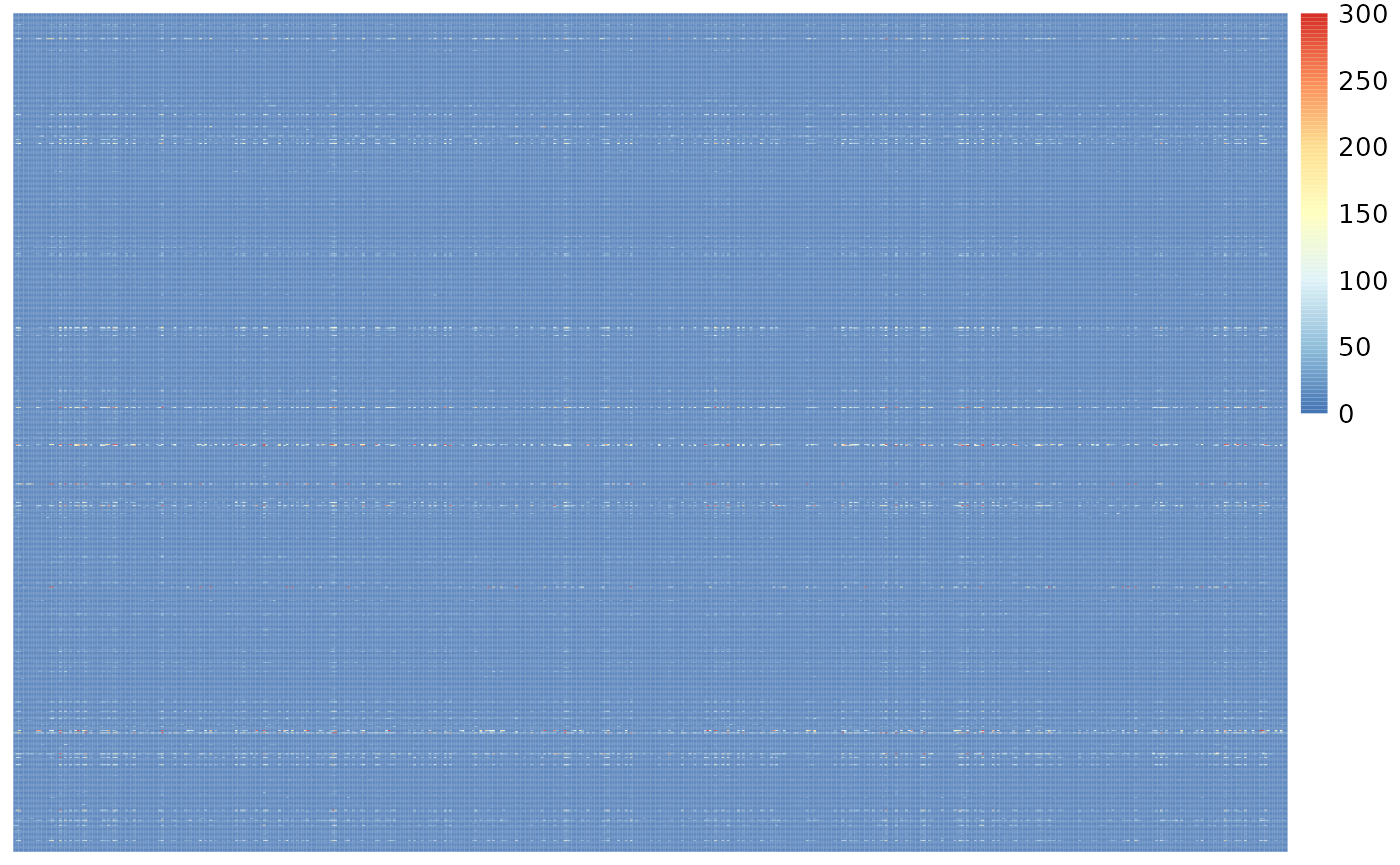
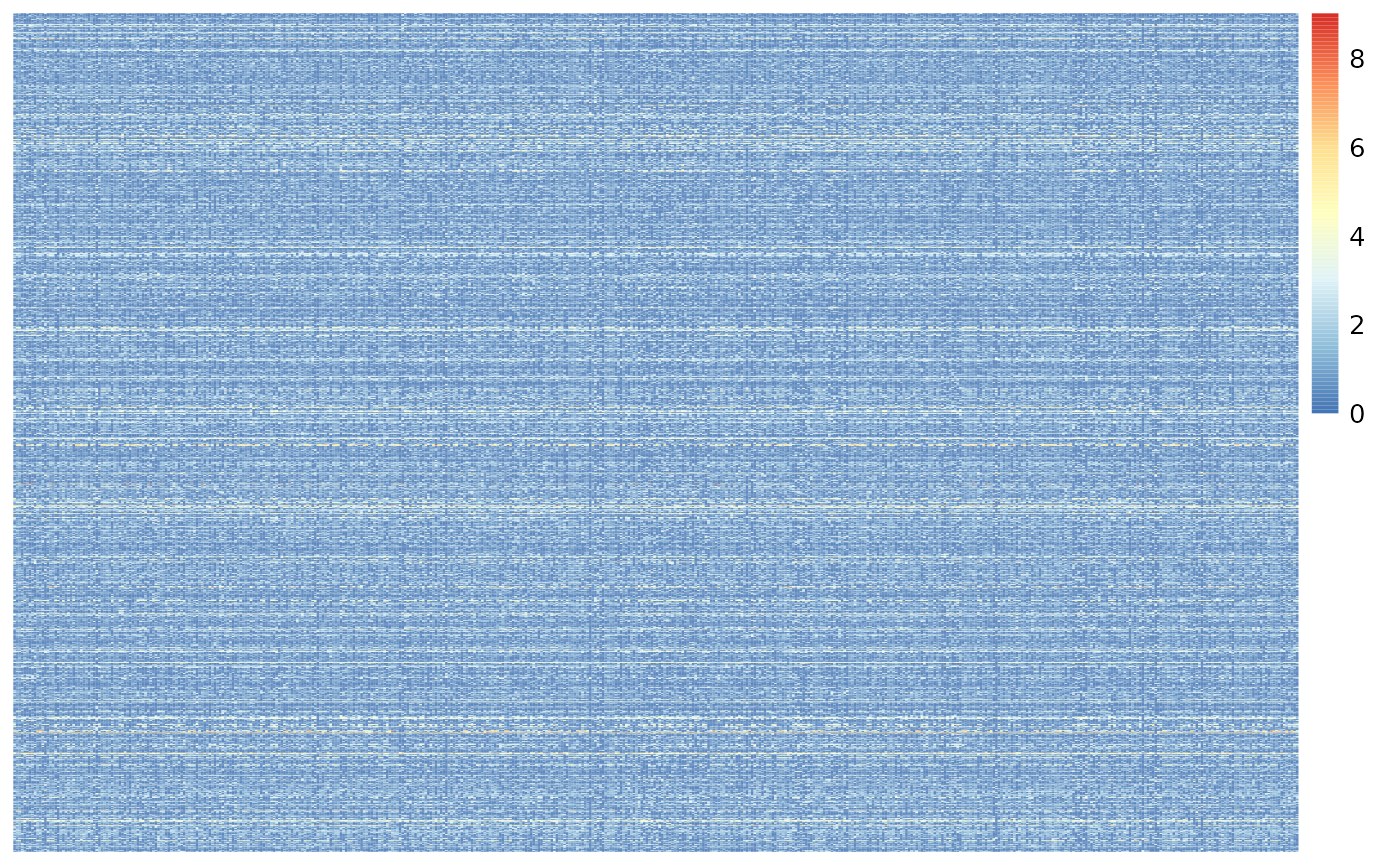
Built site for TREG: 0.99.0@3394f6f

diff --git a/articles/how_to_find_tregs.html b/articles/how_to_find_tregs.html
@@ -202,16 +202,18 @@
 <span class="co">#&gt; The following object is masked from 'package:S4Vectors':</span>
 <span class="co">#&gt; </span>
 <span class="co">#&gt;     expand</span></code></pre></div>
-<p>Here we download a public data snRNA-seq data that we’ll use as our example (Tran, Maynard, Spangler, et al., 2021).</p>
+<p>Here we download a public data single nucleus RNA-seq (snRNA-seq) data that we’ll use as our example (Tran, Maynard, Spangler, et al., 2021). It takes 1.01 GB of RAM memory to load this object.</p>
 <div class="sourceCode" id="cb5"><pre class="downlit sourceCode r">
 <code class="sourceCode R"><span class="co"># Download and save a local cache of the data available at:</span>
 <span class="co"># https://github.com/LieberInstitute/10xPilot_snRNAseq-human#processed-data</span>
-
 <span class="va">bfc</span> <span class="op">&lt;-</span> <span class="fu">BiocFileCache</span><span class="fu">::</span><span class="fu"><a href="https://rdrr.io/pkg/BiocFileCache/man/BiocFileCache-class.html" class="external-link">BiocFileCache</a></span><span class="op">(</span><span class="op">)</span>
-<span class="va">url</span> <span class="op">&lt;-</span> <span class="st">"https://libd-snrnaseq-pilot.s3.us-east-2.amazonaws.com/SCE_DLPFC-n3_tran-etal.rda"</span>
-<span class="va">data</span> <span class="op">&lt;-</span> <span class="fu">BiocFileCache</span><span class="fu">::</span><span class="fu"><a href="https://rdrr.io/pkg/BiocFileCache/man/BiocFileCache-class.html" class="external-link">bfcrpath</a></span><span class="op">(</span><span class="va">url</span>, x <span class="op">=</span> <span class="va">bfc</span><span class="op">)</span>
+<span class="va">url</span> <span class="op">&lt;-</span> <span class="fu"><a href="https://rdrr.io/r/base/paste.html" class="external-link">paste0</a></span><span class="op">(</span>
+    <span class="st">"https://libd-snrnaseq-pilot.s3.us-east-2.amazonaws.com/"</span>,
+    <span class="st">"SCE_DLPFC-n3_tran-etal.rda"</span>
+<span class="op">)</span>
+<span class="va">local_data</span> <span class="op">&lt;-</span> <span class="fu">BiocFileCache</span><span class="fu">::</span><span class="fu"><a href="https://rdrr.io/pkg/BiocFileCache/man/BiocFileCache-class.html" class="external-link">bfcrpath</a></span><span class="op">(</span><span class="va">url</span>, x <span class="op">=</span> <span class="va">bfc</span><span class="op">)</span>
 
-<span class="fu"><a href="https://rdrr.io/r/base/load.html" class="external-link">load</a></span><span class="op">(</span><span class="va">data</span>, verbose <span class="op">=</span> <span class="cn">TRUE</span><span class="op">)</span>
+<span class="fu"><a href="https://rdrr.io/r/base/load.html" class="external-link">load</a></span><span class="op">(</span><span class="va">local_data</span>, verbose <span class="op">=</span> <span class="cn">TRUE</span><span class="op">)</span>
 <span class="co">#&gt; Loading objects:</span>
 <span class="co">#&gt;   sce.dlpfc.tran</span></code></pre></div>
 <div class="section level3">
@@ -253,14 +255,14 @@
 <div class="section level4">
 <h4 id="filter-genes">Filter Genes<a class="anchor" aria-label="anchor" href="#filter-genes"></a>
 </h4>
-<p>Single Nucleus data is often very sparse (lots of zeros in the count data), this dataset is 88% sparse. We can illustrate this in the heat map which is very blue (Figure @ref(fig:exampleSparsity)).</p>
+<p>Single Nucleus data is often very sparse (lots of zeros in the count data), this dataset is 88% sparse. We can illustrate this in the heat map which is very blue (Figure @ref(fig:example_sparsity)).</p>
 <div class="sourceCode" id="cb8"><pre class="downlit sourceCode r">
 <code class="sourceCode R"><span class="co">## this data is 88% sparse</span>
 <span class="fu"><a href="https://rdrr.io/r/base/sum.html" class="external-link">sum</a></span><span class="op">(</span><span class="fu"><a href="https://rdrr.io/pkg/SummarizedExperiment/man/SummarizedExperiment-class.html" class="external-link">assays</a></span><span class="op">(</span><span class="va">sce.dlpfc.tran</span><span class="op">)</span><span class="op">$</span><span class="va">counts</span> <span class="op">==</span> <span class="fl">0</span><span class="op">)</span> <span class="op">/</span> <span class="op">(</span><span class="fu"><a href="https://rdrr.io/r/base/nrow.html" class="external-link">nrow</a></span><span class="op">(</span><span class="va">sce.dlpfc.tran</span><span class="op">)</span> <span class="op">*</span> <span class="fu"><a href="https://rdrr.io/r/base/nrow.html" class="external-link">ncol</a></span><span class="op">(</span><span class="va">sce.dlpfc.tran</span><span class="op">)</span><span class="op">)</span>
 <span class="co">#&gt; [1] 0.8839022</span>
 
 <span class="co">## lets make a heatmap of the first 1k genes and 500 cells</span>
-<span class="va">count_test</span> <span class="op">&lt;-</span> <span class="fu"><a href="https://rdrr.io/r/base/matrix.html" class="external-link">as.matrix</a></span><span class="op">(</span><span class="fu"><a href="https://rdrr.io/pkg/SummarizedExperiment/man/SummarizedExperiment-class.html" class="external-link">assays</a></span><span class="op">(</span><span class="va">sce.dlpfc.tran</span><span class="op">)</span><span class="op">$</span><span class="va">counts</span><span class="op">[</span><span class="fl">1</span><span class="op">:</span><span class="fl">1000</span>, <span class="fl">1</span><span class="op">:</span><span class="fl">500</span><span class="op">]</span><span class="op">)</span>
+<span class="va">count_test</span> <span class="op">&lt;-</span> <span class="fu"><a href="https://rdrr.io/r/base/matrix.html" class="external-link">as.matrix</a></span><span class="op">(</span><span class="fu"><a href="https://rdrr.io/pkg/SummarizedExperiment/man/SummarizedExperiment-class.html" class="external-link">assays</a></span><span class="op">(</span><span class="va">sce.dlpfc.tran</span><span class="op">)</span><span class="op">$</span><span class="va">logcounts</span><span class="op">[</span><span class="fl">1</span><span class="op">:</span><span class="fl">1000</span>, <span class="fl">1</span><span class="op">:</span><span class="fl">500</span><span class="op">]</span><span class="op">)</span>
 <span class="fu"><a href="https://rdrr.io/pkg/pheatmap/man/pheatmap.html" class="external-link">pheatmap</a></span><span class="op">(</span><span class="va">count_test</span>,
     cluster_rows <span class="op">=</span> <span class="cn">FALSE</span>,
     cluster_cols <span class="op">=</span> <span class="cn">FALSE</span>,
@@ -268,7 +270,7 @@
     show_colnames <span class="op">=</span> <span class="cn">FALSE</span>
 <span class="op">)</span></code></pre></div>
 <div class="figure">
-<img src="how_to_find_tregs_files/figure-html/examineSparsity-1.png" alt="TODO." width="700"><p class="caption">
+<img src="how_to_find_tregs_files/figure-html/examine_sparsity-1.png" alt="TODO." width="700"><p class="caption">
 TODO.
 </p>
 </div>
@@ -284,21 +286,25 @@ TODO.
 <span class="va">sce.dlpfc.tran</span> <span class="op">&lt;-</span> <span class="va">sce.dlpfc.tran</span><span class="op">[</span><span class="va">row_means</span> <span class="op">&gt;</span> <span class="va">median_row_means</span>, <span class="op">]</span>
 <span class="fu"><a href="https://rdrr.io/r/base/dim.html" class="external-link">dim</a></span><span class="op">(</span><span class="va">sce.dlpfc.tran</span><span class="op">)</span>
 <span class="co">#&gt; [1] 16769 11165</span></code></pre></div>
-<p>After this filter lets check sparsity and make a heatmap of the first 1k genes and 500 cells. We are seeing more non-blue!</p>
+<p>After this filter lets check sparsity and make a heatmap of the first 1k genes and 500 cells. We are seeing more non-blue (Figure @ref(fig:top50_filter_heatmap))!</p>
 <div class="sourceCode" id="cb10"><pre class="downlit sourceCode r">
 <code class="sourceCode R"><span class="co">## this data down to 77% sparse</span>
 <span class="fu"><a href="https://rdrr.io/r/base/sum.html" class="external-link">sum</a></span><span class="op">(</span><span class="fu"><a href="https://rdrr.io/pkg/SummarizedExperiment/man/SummarizedExperiment-class.html" class="external-link">assays</a></span><span class="op">(</span><span class="va">sce.dlpfc.tran</span><span class="op">)</span><span class="op">$</span><span class="va">counts</span> <span class="op">==</span> <span class="fl">0</span><span class="op">)</span> <span class="op">/</span> <span class="op">(</span><span class="fu"><a href="https://rdrr.io/r/base/nrow.html" class="external-link">nrow</a></span><span class="op">(</span><span class="va">sce.dlpfc.tran</span><span class="op">)</span> <span class="op">*</span> <span class="fu"><a href="https://rdrr.io/r/base/nrow.html" class="external-link">ncol</a></span><span class="op">(</span><span class="va">sce.dlpfc.tran</span><span class="op">)</span><span class="op">)</span>
 <span class="co">#&gt; [1] 0.7713423</span>
 
 <span class="co">## replot heatmap</span>
-<span class="va">count_test</span> <span class="op">&lt;-</span> <span class="fu"><a href="https://rdrr.io/r/base/matrix.html" class="external-link">as.matrix</a></span><span class="op">(</span><span class="fu"><a href="https://rdrr.io/pkg/SummarizedExperiment/man/SummarizedExperiment-class.html" class="external-link">assays</a></span><span class="op">(</span><span class="va">sce.dlpfc.tran</span><span class="op">)</span><span class="op">$</span><span class="va">counts</span><span class="op">[</span><span class="fl">1</span><span class="op">:</span><span class="fl">1000</span>, <span class="fl">1</span><span class="op">:</span><span class="fl">500</span><span class="op">]</span><span class="op">)</span>
+<span class="va">count_test</span> <span class="op">&lt;-</span> <span class="fu"><a href="https://rdrr.io/r/base/matrix.html" class="external-link">as.matrix</a></span><span class="op">(</span><span class="fu"><a href="https://rdrr.io/pkg/SummarizedExperiment/man/SummarizedExperiment-class.html" class="external-link">assays</a></span><span class="op">(</span><span class="va">sce.dlpfc.tran</span><span class="op">)</span><span class="op">$</span><span class="va">logcounts</span><span class="op">[</span><span class="fl">1</span><span class="op">:</span><span class="fl">1000</span>, <span class="fl">1</span><span class="op">:</span><span class="fl">500</span><span class="op">]</span><span class="op">)</span>
 <span class="fu">pheatmap</span><span class="fu">::</span><span class="fu"><a href="https://rdrr.io/pkg/pheatmap/man/pheatmap.html" class="external-link">pheatmap</a></span><span class="op">(</span><span class="va">count_test</span>,
     cluster_rows <span class="op">=</span> <span class="cn">FALSE</span>,
     cluster_cols <span class="op">=</span> <span class="cn">FALSE</span>,
     show_rownames <span class="op">=</span> <span class="cn">FALSE</span>,
     show_colnames <span class="op">=</span> <span class="cn">FALSE</span>
 <span class="op">)</span></code></pre></div>
-<p><img src="how_to_find_tregs_files/figure-html/top50_filter_heatmap-1.png" width="700"></p>
+<div class="figure">
+<img src="how_to_find_tregs_files/figure-html/top50_filter_heatmap-1.png" alt="TODO." width="700"><p class="caption">
+TODO.
+</p>
+</div>
 </div>
 <div class="section level5">
 <h5 id="calculate-the-proportion-of-zeros-and-pick-cutoff">Calculate the Proportion of Zeros and Pick Cutoff<a class="anchor" aria-label="anchor" href="#calculate-the-proportion-of-zeros-and-pick-cutoff"></a>
@@ -315,7 +321,7 @@ TODO.
 <span class="co">#&gt; NOC2L      0.9347826 0.6168342 0.7556962 0.9536082 0.9365720 0.8811189</span>
 <span class="co">#&gt; KLHL17     0.9859335 0.8986600 0.9360759 0.9922680 0.9963336 0.9877622</span>
 <span class="co">#&gt; HES4       0.8695652 0.7357621 0.6892405 0.9974227 0.9906508 0.9737762</span></code></pre></div>
-<p>To determine a good cutoff for filtering lets examine the distribution of these proportions by group.</p>
+<p>To determine a good cutoff for filtering lets examine the distribution of these proportions by group (Figure @ref(fig:prop_zero_distribution)).</p>
 <div class="sourceCode" id="cb12"><pre class="downlit sourceCode r">
 <code class="sourceCode R"><span class="co"># Need to pivot data</span>
 <span class="va">prop_zero_long</span> <span class="op">&lt;-</span> <span class="va">prop_zeros</span> <span class="op"><a href="https://magrittr.tidyverse.org/reference/pipe.html" class="external-link">%&gt;%</a></span>
@@ -329,39 +335,51 @@ TODO.
 <span class="op">)</span> <span class="op">+</span>
     <span class="fu"><a href="https://ggplot2.tidyverse.org/reference/geom_histogram.html" class="external-link">geom_histogram</a></span><span class="op">(</span>binwidth <span class="op">=</span> <span class="fl">0.05</span><span class="op">)</span> <span class="op">+</span>
     <span class="fu"><a href="https://ggplot2.tidyverse.org/reference/facet_wrap.html" class="external-link">facet_wrap</a></span><span class="op">(</span><span class="op">~</span><span class="va">Group</span><span class="op">)</span><span class="op">)</span></code></pre></div>
-<p><img src="how_to_find_tregs_files/figure-html/prop_zero_distribution-1.png" width="700"></p>
-<p>Looks like around 0.9 the densities peak, we’ll set that as the cutoff.</p>
+<div class="figure">
+<img src="how_to_find_tregs_files/figure-html/prop_zero_distribution-1.png" alt="TODO." width="700"><p class="caption">
+TODO.
+</p>
+</div>
+<p>Looks like around 0.9 the densities peak, we’ll set that as the cutoff (Figure @ref(fig:pick_cutoff)).</p>
 <div class="sourceCode" id="cb13"><pre class="downlit sourceCode r">
-<code class="sourceCode R"><span class="va">propZero_limit</span> <span class="op">&lt;-</span> <span class="fl">0.9</span>
+<code class="sourceCode R"><span class="co">## Specify a cutoff, here we use 0.9</span>
+<span class="va">propZero_limit</span> <span class="op">&lt;-</span> <span class="fl">0.9</span>
 
+<span class="co">## Add a vertical red dashed line where the cutoff is located</span>
 <span class="va">prop_zero_histogram</span> <span class="op">+</span>
     <span class="fu"><a href="https://ggplot2.tidyverse.org/reference/geom_abline.html" class="external-link">geom_vline</a></span><span class="op">(</span>xintercept <span class="op">=</span> <span class="va">propZero_limit</span>, color <span class="op">=</span> <span class="st">"red"</span>, linetype <span class="op">=</span> <span class="st">"dashed"</span><span class="op">)</span></code></pre></div>
-<p><img src="how_to_find_tregs_files/figure-html/pick_cutoff-1.png" width="700"></p>
+<div class="figure">
+<img src="how_to_find_tregs_files/figure-html/pick_cutoff-1.png" alt="TODO." width="700"><p class="caption">
+TODO.
+</p>
+</div>
 </div>
 <div class="section level5">
 <h5 id="filter-by-the-max-proportion-of-zeros">Filter by the Max Proportion of Zeros<a class="anchor" aria-label="anchor" href="#filter-by-the-max-proportion-of-zeros"></a>
 </h5>
-<p>Use the cutoff to filter the remaining genes. Only 4k or ~11% of genes pass with this cutoff. Filter the sce object to this set of genes.</p>
+<p>Use the cutoff to filter the remaining genes. Only 4k or ~11% of genes pass with this cutoff. Filter the SCE object to this set of genes.</p>
 <div class="sourceCode" id="cb14"><pre class="downlit sourceCode r">
 <code class="sourceCode R"><span class="co">## get a list of filtered genes</span>
 <span class="va">filtered_genes</span> <span class="op">&lt;-</span> <span class="fu"><a href="../reference/filter_prop_zero.html">filter_prop_zero</a></span><span class="op">(</span><span class="va">prop_zeros</span>, cutoff <span class="op">=</span> <span class="va">propZero_limit</span><span class="op">)</span>
+
 <span class="co">## How many genes pass the filter?</span>
 <span class="fu"><a href="https://rdrr.io/r/base/length.html" class="external-link">length</a></span><span class="op">(</span><span class="va">filtered_genes</span><span class="op">)</span>
 <span class="co">#&gt; [1] 4005</span>
+
 <span class="co">## What % of genes is this</span>
 <span class="fu"><a href="https://rdrr.io/r/base/length.html" class="external-link">length</a></span><span class="op">(</span><span class="va">filtered_genes</span><span class="op">)</span> <span class="op">/</span> <span class="fu"><a href="https://rdrr.io/r/base/nrow.html" class="external-link">nrow</a></span><span class="op">(</span><span class="va">sce.dlpfc.tran</span><span class="op">)</span>
 <span class="co">#&gt; [1] 0.2388336</span>
 
 <span class="co">## Filter the sce object</span>
 <span class="va">sce.dlpfc.tran</span> <span class="op">&lt;-</span> <span class="va">sce.dlpfc.tran</span><span class="op">[</span><span class="va">filtered_genes</span>, <span class="op">]</span></code></pre></div>
-<p>One last check of the sparsity and heatmap.</p>
+<p>One last check of the sparsity and heatmap (Figure @ref(fig:prop_zero_filter_heatmap)).</p>
 <div class="sourceCode" id="cb15"><pre class="downlit sourceCode r">
 <code class="sourceCode R"><span class="co">## this data down to 50% sparse</span>
 <span class="fu"><a href="https://rdrr.io/r/base/sum.html" class="external-link">sum</a></span><span class="op">(</span><span class="fu"><a href="https://rdrr.io/pkg/SummarizedExperiment/man/SummarizedExperiment-class.html" class="external-link">assays</a></span><span class="op">(</span><span class="va">sce.dlpfc.tran</span><span class="op">)</span><span class="op">$</span><span class="va">counts</span> <span class="op">==</span> <span class="fl">0</span><span class="op">)</span> <span class="op">/</span> <span class="op">(</span><span class="fu"><a href="https://rdrr.io/r/base/nrow.html" class="external-link">nrow</a></span><span class="op">(</span><span class="va">sce.dlpfc.tran</span><span class="op">)</span> <span class="op">*</span> <span class="fu"><a href="https://rdrr.io/r/base/nrow.html" class="external-link">ncol</a></span><span class="op">(</span><span class="va">sce.dlpfc.tran</span><span class="op">)</span><span class="op">)</span>
 <span class="co">#&gt; [1] 0.5010587</span>
 
-<span class="co">## replot heatmap</span>
-<span class="va">count_test</span> <span class="op">&lt;-</span> <span class="fu"><a href="https://rdrr.io/r/base/matrix.html" class="external-link">as.matrix</a></span><span class="op">(</span><span class="fu"><a href="https://rdrr.io/pkg/SummarizedExperiment/man/SummarizedExperiment-class.html" class="external-link">assays</a></span><span class="op">(</span><span class="va">sce.dlpfc.tran</span><span class="op">)</span><span class="op">$</span><span class="va">counts</span><span class="op">[</span><span class="fl">1</span><span class="op">:</span><span class="fl">1000</span>, <span class="fl">1</span><span class="op">:</span><span class="fl">500</span><span class="op">]</span><span class="op">)</span>
+<span class="co">## re-plot heatmap</span>
+<span class="va">count_test</span> <span class="op">&lt;-</span> <span class="fu"><a href="https://rdrr.io/r/base/matrix.html" class="external-link">as.matrix</a></span><span class="op">(</span><span class="fu"><a href="https://rdrr.io/pkg/SummarizedExperiment/man/SummarizedExperiment-class.html" class="external-link">assays</a></span><span class="op">(</span><span class="va">sce.dlpfc.tran</span><span class="op">)</span><span class="op">$</span><span class="va">logcounts</span><span class="op">[</span><span class="fl">1</span><span class="op">:</span><span class="fl">1000</span>, <span class="fl">1</span><span class="op">:</span><span class="fl">500</span><span class="op">]</span><span class="op">)</span>
 <span class="co">## Just to help visualization we'll cap the counts at 300</span>
 <span class="va">count_test</span><span class="op">[</span><span class="va">count_test</span> <span class="op">&gt;</span> <span class="fl">300</span><span class="op">]</span> <span class="op">&lt;-</span> <span class="fl">300</span>
 <span class="fu">pheatmap</span><span class="fu">::</span><span class="fu"><a href="https://rdrr.io/pkg/pheatmap/man/pheatmap.html" class="external-link">pheatmap</a></span><span class="op">(</span><span class="va">count_test</span>,
@@ -370,13 +388,17 @@ TODO.
     show_rownames <span class="op">=</span> <span class="cn">FALSE</span>,
     show_colnames <span class="op">=</span> <span class="cn">FALSE</span>
 <span class="op">)</span></code></pre></div>
-<p><img src="how_to_find_tregs_files/figure-html/prop_zero_filter_heatmap-1.png" width="700"></p>
+<div class="figure">
+<img src="how_to_find_tregs_files/figure-html/prop_zero_filter_heatmap-1.png" alt="TODO." width="700"><p class="caption">
+TODO.
+</p>
+</div>
 </div>
 </div>
 <div class="section level4">
 <h4 id="run-rank-invariance">Run Rank Invariance<a class="anchor" aria-label="anchor" href="#run-rank-invariance"></a>
 </h4>
-<p>To get the rank invariance (RI), the rank of the genes across the cells in a group, and between groups is considered. One way to calculate RI is to dine the group rank values, and cell rank values separately, then combine them as shown below. The genes with the top RI values are the best candidate TREGs.</p>
+<p>To get the Rank Invariance (RI), the rank of the genes across the cells in a group, and between groups is considered. One way to calculate RI is to dine (TODO: dine??) the group rank values, and cell rank values separately, then combine them as shown below. The genes with the top RI values are the best candidate TREGs.</p>
 <div class="sourceCode" id="cb16"><pre class="downlit sourceCode r">
 <code class="sourceCode R"><span class="co">## Get the rank of the gene in each group</span>
 <span class="va">group_rank</span> <span class="op">&lt;-</span> <span class="fu"><a href="../reference/rank_group.html">rank_group</a></span><span class="op">(</span><span class="va">sce.dlpfc.tran</span>, group_col <span class="op">=</span> <span class="st">"cellType.broad"</span><span class="op">)</span>
@@ -384,24 +406,31 @@ TODO.
 <span class="co">## Get the rank of the gene for each cell</span>
 <span class="va">cell_rank</span> <span class="op">&lt;-</span> <span class="fu"><a href="../reference/rank_cells.html">rank_cells</a></span><span class="op">(</span><span class="va">sce.dlpfc.tran</span>, group_col <span class="op">=</span> <span class="st">"cellType.broad"</span><span class="op">)</span>
 
-<span class="co">## Use both rankings to calculate rank_invariance</span>
+<span class="co">## Use both rankings to calculate rank_invariance()</span>
 <span class="va">rank_invar</span> <span class="op">&lt;-</span> <span class="fu"><a href="../reference/rank_invariance.html">rank_invariance</a></span><span class="op">(</span><span class="va">group_rank</span>, <span class="va">cell_rank</span><span class="op">)</span>
 <span class="fu"><a href="https://rdrr.io/r/utils/head.html" class="external-link">head</a></span><span class="op">(</span><span class="va">rank_invar</span><span class="op">[</span><span class="fu"><a href="https://rdrr.io/r/base/order.html" class="external-link">sort.list</a></span><span class="op">(</span><span class="va">rank_invar</span>, decreasing <span class="op">=</span> <span class="cn">TRUE</span><span class="op">)</span><span class="op">]</span><span class="op">)</span>
 <span class="co">#&gt;  MALAT1  CTNND2     FTX    RERE FAM155A    GNAQ </span>
 <span class="co">#&gt;    4005    4004    4003    4002    4001    4000</span></code></pre></div>
-<p>The <code>rank_invariance_express</code> function combines these three steps into one function, and achieves the same results.</p>
+<p>The <code><a href="../reference/rank_invariance_express.html">rank_invariance_express()</a></code> function combines these three steps into one function, and achieves the same results.</p>
 <div class="sourceCode" id="cb17"><pre class="downlit sourceCode r">
-<code class="sourceCode R"><span class="va">rank_invar2</span> <span class="op">&lt;-</span> <span class="fu"><a href="../reference/rank_invariance_express.html">rank_invariance_express</a></span><span class="op">(</span><span class="va">sce.dlpfc.tran</span>, group_col <span class="op">=</span> <span class="st">"cellType.broad"</span><span class="op">)</span>
+<code class="sourceCode R"><span class="co">## rank_invariance_express() runs the previous functions for you</span>
+<span class="va">rank_invar2</span> <span class="op">&lt;-</span> <span class="fu"><a href="../reference/rank_invariance_express.html">rank_invariance_express</a></span><span class="op">(</span>
+    <span class="va">sce.dlpfc.tran</span>,
+    group_col <span class="op">=</span> <span class="st">"cellType.broad"</span>
+<span class="op">)</span>
 <span class="fu"><a href="https://rdrr.io/r/utils/head.html" class="external-link">head</a></span><span class="op">(</span><span class="va">rank_invar2</span><span class="op">[</span><span class="fu"><a href="https://rdrr.io/r/base/order.html" class="external-link">sort.list</a></span><span class="op">(</span><span class="va">rank_invar2</span>, decreasing <span class="op">=</span> <span class="cn">TRUE</span><span class="op">)</span><span class="op">]</span><span class="op">)</span>
 <span class="co">#&gt;  MALAT1  CTNND2     FTX    RERE FAM155A    GNAQ </span>
-<span class="co">#&gt;    4005    4004    4003    4002    4001    4000</span></code></pre></div>
+<span class="co">#&gt;    4005    4004    4003    4002    4001    4000</span>
+
+<span class="co">## Check computationally that the results are identical</span>
+<span class="fu"><a href="https://rdrr.io/r/base/stopifnot.html" class="external-link">stopifnot</a></span><span class="op">(</span><span class="fu"><a href="https://rdrr.io/r/base/identical.html" class="external-link">identical</a></span><span class="op">(</span><span class="va">rank_invar</span>, <span class="va">rank_invar2</span><span class="op">)</span><span class="op">)</span></code></pre></div>
 </div>
 </div>
 </div>
 <div class="section level2">
 <h2 id="conclusion">Conclusion<a class="anchor" aria-label="anchor" href="#conclusion"></a>
 </h2>
-<p>TODO</p>
+<p>TODO: mention how we validated some TREGs in the paper (Huuki-Myers, Montgomery, Kwon, et al., 2022), how you might want to consider generating this data in your experiments, and how TREGs might be useful for future deconvolution algorithms.</p>
 </div>
 <div class="section level2">
 <h2 id="reproducibility">Reproducibility<a class="anchor" aria-label="anchor" href="#reproducibility"></a>
@@ -452,9 +481,9 @@ TODO.
 <span class="kw"><a href="https://rdrr.io/r/base/library.html" class="external-link">library</a></span><span class="op">(</span><span class="st"><a href="https://yihui.org/knitr/" class="external-link">"knitr"</a></span><span class="op">)</span>
 <span class="fu"><a href="https://rdrr.io/pkg/knitr/man/knit.html" class="external-link">knit</a></span><span class="op">(</span><span class="st">"TREG.Rmd"</span>, tangle <span class="op">=</span> <span class="cn">TRUE</span><span class="op">)</span></code></pre></div>
 <p>Date the vignette was generated.</p>
-<pre><code><span class="co">#&gt; [1] "2022-02-25 20:01:27 UTC"</span></code></pre>
+<pre><code><span class="co">#&gt; [1] "2022-02-25 20:08:04 UTC"</span></code></pre>
 <p>Wallclock time spent generating the vignette.</p>
-<pre><code><span class="co">#&gt; Time difference of 1.436 mins</span></code></pre>
+<pre><code><span class="co">#&gt; Time difference of 1.269 mins</span></code></pre>
 <p><code>R</code> session information.</p>
 <pre><code><span class="co">#&gt; <span style="color: #00BBBB; font-weight: bold;">─ Session info ───────────────────────────────────────────────────────────────────────────────────────────────────────</span></span>
 <span class="co">#&gt;  <span style="color: #555555; font-style: italic;">setting </span> <span style="color: #555555; font-style: italic;">value</span></span>
